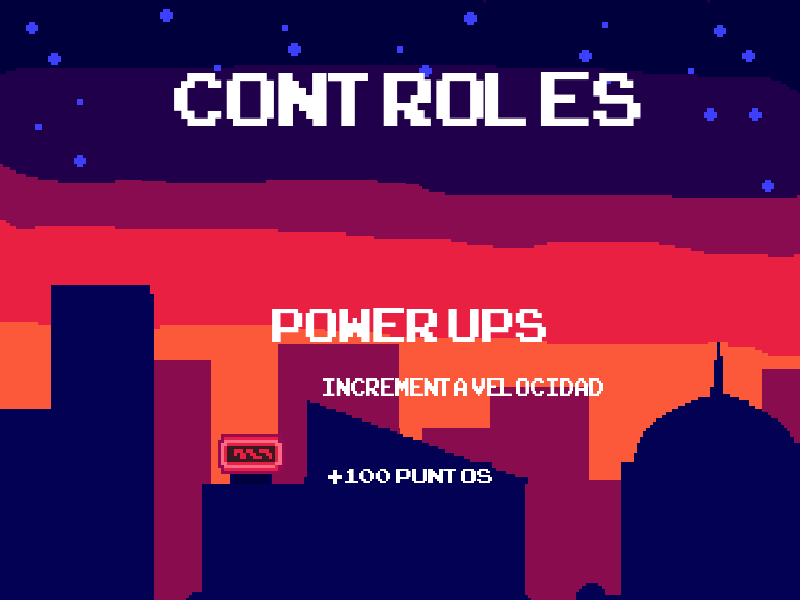
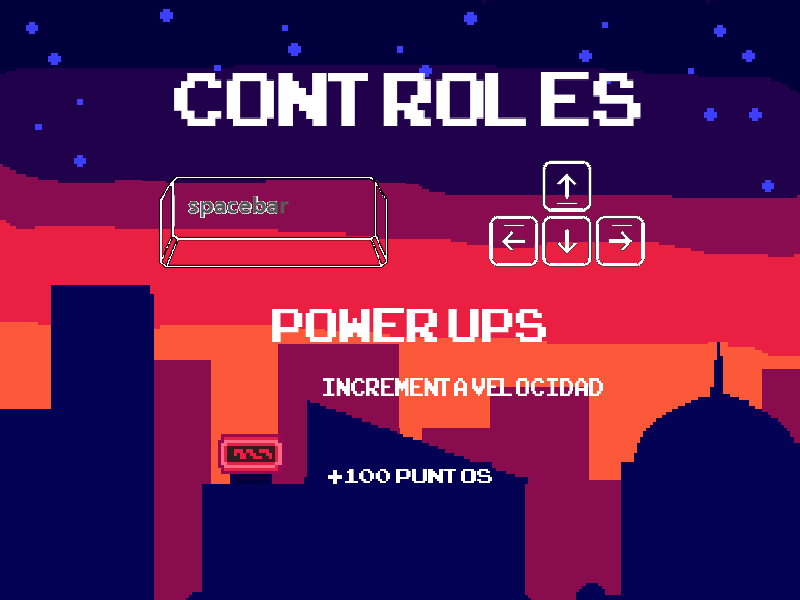
mecanicas principales finalizadas

Changed region(s): [[0.5938, 0.24, 0.8125, 0.45], [0.1875, 0.3, 0.5, 0.45], [0.2188, 0.27, 0.4688, 0.3]]

diff --git a/assets/scenes/Game3.js b/assets/scenes/Game3.js
@@ -1,22 +1,24 @@
-export default class Game extends Phaser.Scene {
+export default class Game3 extends Phaser.Scene {
   score;
   gameOver;
   timer;
   vel;
+  hits;
   constructor() {
-    super("game");
+    super("game3");
   }
 
   init() {
     this.gameOver = false;
     this.score = 0;
     this.vel= 430;
+    this.hits= 0;
   }
   create() {
    //add sound
    this.soundshoot = this.sound.add("shoots");
     //add background
-    this.add.image(400, 300, "background1").setScale(1);
+    this.add.image(400, 300, "background3").setScale(1);
     let platform = this.physics.add.staticGroup();
     platform.create(400, 640, "platform").setScale(1).refreshBody();
     //add sprites player
@@ -44,11 +46,20 @@ export default class Game extends Phaser.Scene {
     //add platform
     
     //add enemies
-    this.enemy = this.physics.add.group();
+    this.boss = this.physics.add.group();
+    this.boss = this.physics.add.sprite(400, 100, "boss").setScale(0.80);
+    this.boss.body.allowGravity = false;
+    this.enemy = this.physics.add.group(); 
     //add enemies event
     this.time.addEvent({
       delay: 3000,
       callback: this.spawnEnemy,
+      callbackScope: this,
+      loop: true,
+    })
+    this.time.addEvent({
+      delay: 5000,
+      callback: this.spawnEnemy2,
       callbackScope: this,
       loop: true,
     })
@@ -65,6 +76,8 @@ export default class Game extends Phaser.Scene {
     this.physics.add.collider(this.player, this.enemy);
     this.physics.add.collider(this.shoot, this.enemy);
     this.physics.add.collider(this.enemy, platform);
+    this.physics.add.collider(this.player, this.boss);
+    this.physics.add.collider(this.shoot, this.boss);
     this.physics.add.overlap(
       this.shoot,
       this.enemy,
@@ -100,7 +113,14 @@ export default class Game extends Phaser.Scene {
       this.reduce,
       null,
       this
-    )
+    );
+    this.physics.add.overlap(
+      this.shoot,
+      this.boss,
+      this.destroyBoss,
+      null,
+      this
+    );
 
     //add score on scene
     this.scoreText = this.add.text(20, 20, "Score:" + this.score, {
@@ -123,8 +143,8 @@ export default class Game extends Phaser.Scene {
     });
   }
   update() {
-    if (this.score >= 200) {
-      this.scene.start("win");
+    if (this.score >= 100) {
+      this.scene.start("win3");
     }
     if (this.gameOver) {
       this.scene.start("gameOver");
@@ -156,7 +176,12 @@ export default class Game extends Phaser.Scene {
   }
   spawnEnemy(){
     const randomX = Phaser.Math.RND.between(0,800);
-    this.enemy.create(randomX, 0, "enemy").setCircle(35, 40, 25).setCollideWorldBounds(true);
+    this.enemy.create(randomX +200 , 0, "enemy").setCircle(35, 40, 25).setCollideWorldBounds(true);
+    console.log("enemy spawned", randomX);
+  }
+  spawnEnemy2(){
+    const randomX = Phaser.Math.RND.between(0,800);
+    this.enemy.create(randomX, 0, "enemy2").setCircle(35, 40, 25).setGravityY(300).setCollideWorldBounds(true);
     console.log("enemy spawned", randomX);
   }
   spawnBonus1(){
@@ -216,6 +241,13 @@ export default class Game extends Phaser.Scene {
     setTimeout(() => {
       text.destroy();},
       200);
+    }
+    destroyBoss(shoot, boss){
+      shoot.disableBody(true,true);
+      this.hits ++
+      if(this.hits = 100){
+        this.scene.start("win3")
+      }
     }
   onSecond() {
     this.timer--;

diff --git a/assets/scenes/Preload.js b/assets/scenes/Preload.js
@@ -6,8 +6,12 @@ export default class Preload extends Phaser.Scene {
   preload() 
   {
     this.load.image("background1","./assets/images/background1.png");
+    this.load.image("background2","./assets/images/background2.png");
+    this.load.image("background3","./assets/images/background3.png");
     this.load.image("nave","./assets/images/nave defender.png");
     this.load.image("enemy","./assets/images/subditos.png");
+    this.load.image("enemy2","./assets/images/enemy2.png");
+    this.load.image("boss","./assets/images/nave nodriza.png");
     this.load.image("bala","./assets/images/bala.png");
     this.load.image("explosion","./assets/images/explosion.png");
     this.load.image("gameOver","./assets/images/gameover.png");
@@ -16,6 +20,13 @@ export default class Preload extends Phaser.Scene {
     this.load.image("help","./assets/images/helpbutton.png");
     this.load.image("helpscene","./assets/images/HELP.png");
     this.load.image("retrybtn","./assets/images/retry.png");
+    this.load.image("winscene","./assets/images/winscene.png");
+    this.load.image("gamewin","./assets/images/gamewin.png");
+    this.load.image("nlbtn","./assets/images/nextlevelbtn.png");
+    this.load.image("back","./assets/images/backbtn.png");
+    this.load.image("platform","./assets/images/platform.png");
+    this.load.audio("shoots","./assets/sounds/shootsound.wav")
+
     this.load.spritesheet("velocity","./assets/images/Bonus1.png", {
       frameWidth: 95,
       frameHeight: 95,
@@ -30,20 +41,20 @@ export default class Preload extends Phaser.Scene {
   
   
   create() {
-    this.bonus1 = this.anims.create({
-      key: "velocityanimation",
-      frames: this.anims.generateFrameNumbers("velocity", {start: 0, end: 1}),
-      frameRate: 10,
-      repeat: -1,
-      yoyo: true,
-    })
-    this.bonus2 = this.anims.create({
-      key: "pointsanimation",
-      frames: this.anims.generateFrameNumbers("extrapoints", {start: 0, end: 1}),
-      frameRate: 10,
-      repeat: -1,
-      yoyo: true,
-    })
+    // this.bonus1 = this.anims.create({
+    //   key: "velocityanimation",
+    //   frames: this.anims.generateFrameNumbers("velocity", {start: 0, end: 1}),
+    //   frameRate: 10,
+    //   repeat: -1,
+    //   yoyo: true,
+    // })
+    // this.bonus2 = this.anims.create({
+    //   key: "pointsanimation",
+    //   frames: this.anims.generateFrameNumbers("extrapoints", {start: 0, end: 1}),
+    //   frameRate: 10,
+    //   repeat: -1,
+    //   yoyo: true,
+    // })
     //game
     this.scene.start("menu")
   }}

diff --git a/assets/scenes/Game2.js b/assets/scenes/Game2.js
@@ -1,10 +1,10 @@
-export default class Game extends Phaser.Scene {
+export default class Game2 extends Phaser.Scene {
   score;
   gameOver;
   timer;
   vel;
   constructor() {
-    super("game");
+    super("game2");
   }
 
   init() {
@@ -16,7 +16,7 @@ export default class Game extends Phaser.Scene {
    //add sound
    this.soundshoot = this.sound.add("shoots");
     //add background
-    this.add.image(400, 300, "background1").setScale(1);
+    this.add.image(400, 300, "background2").setScale(1);
     let platform = this.physics.add.staticGroup();
     platform.create(400, 640, "platform").setScale(1).refreshBody();
     //add sprites player
@@ -49,6 +49,12 @@ export default class Game extends Phaser.Scene {
     this.time.addEvent({
       delay: 3000,
       callback: this.spawnEnemy,
+      callbackScope: this,
+      loop: true,
+    })
+    this.time.addEvent({
+      delay: 5000,
+      callback: this.spawnEnemy2,
       callbackScope: this,
       loop: true,
     })
@@ -124,7 +130,7 @@ export default class Game extends Phaser.Scene {
   }
   update() {
     if (this.score >= 200) {
-      this.scene.start("win");
+      this.scene.start("win2");
     }
     if (this.gameOver) {
       this.scene.start("gameOver");
@@ -156,7 +162,12 @@ export default class Game extends Phaser.Scene {
   }
   spawnEnemy(){
     const randomX = Phaser.Math.RND.between(0,800);
-    this.enemy.create(randomX, 0, "enemy").setCircle(35, 40, 25).setCollideWorldBounds(true);
+    this.enemy.create(randomX +200 , 0, "enemy").setCircle(35, 40, 25).setCollideWorldBounds(true);
+    console.log("enemy spawned", randomX);
+  }
+  spawnEnemy2(){
+    const randomX = Phaser.Math.RND.between(0,800);
+    this.enemy.create(randomX, 0, "enemy2").setCircle(35, 40, 25).setGravityY(300).setCollideWorldBounds(true);
     console.log("enemy spawned", randomX);
   }
   spawnBonus1(){

diff --git a/main.js b/main.js
@@ -1,8 +1,13 @@
 import Game from "./assets/scenes/Game.js";
+import Game2 from "./assets/scenes/Game2.js";
+import Game3 from "./assets/scenes/Game3.js";
 import GameOver from "./assets/scenes/GameOver.js";
 import Help from "./assets/scenes/Help.js";
 import Menu from "./assets/scenes/Menu.js";
 import Preload from "./assets/scenes/Preload.js";
+import Win from "./assets/scenes/Win.js";
+import Win3 from "./assets/scenes/Win3.js";
+import Win2 from "./assets/scenes/win2.js";
 
 // Create a new Phaser config object
 const config = {
@@ -31,7 +36,7 @@ const config = {
   // List of scenes to load
   // Only the first scene will be shown
   // Remember to import the scene before adding it to the list
-  scene: [Preload, Game, Menu, GameOver, Help ],
+  scene: [Preload, Game,Game2,Game3, Menu, GameOver, Help, Win, Win2,Win3 ],
 };
 
 // Create a new Phaser game instance

diff --git a/assets/scenes/Help.js b/assets/scenes/Help.js
@@ -10,6 +10,8 @@ export default class Help extends Phaser.Scene {
       this.bonus1.anims.play('velocityanimation');
       this.bonus1 = this.add.sprite(275, 470, 'extrapoints');
       this.bonus1.anims.play('pointsanimation');
+      this.add.image(100,560, "back").setScale(0.20).setInteractive()
+      .on("pointerdown",() => this.scene.start("menu"));
       this.add.image(400,550, "play").setScale(0.40).setInteractive()
       .on("pointerdown",() => this.scene.start("game"));
   }}

diff --git a/assets/scenes/Win2.js b/assets/scenes/Win2.js
@@ -1,0 +1,12 @@
+export default class Win2 extends Phaser.Scene {
+  constructor() {
+    super("win2");
+  }
+  create() {
+    this.add
+      .image(400, 300, "winscene")
+      .setScale(1);
+      this.add
+      .image(400, 500, "nlbtn")
+      .setScale(1).setInteractive().on("pointerdown", () => this.scene.start("game3"));
+  }}

diff --git a/assets/scenes/Win3.js b/assets/scenes/Win3.js
@@ -1,0 +1,12 @@
+export default class Win3 extends Phaser.Scene {
+  constructor() {
+    super("win3");
+  }
+  create() {
+    this.add
+      .image(400, 300, "gamewin")
+      .setScale(1);
+      this.add
+      .image(400, 550, "back")
+      .setScale(0.40).setInteractive().on("pointerdown", () => this.scene.start("menu"));
+  }}

diff --git a/assets/scenes/Win.js b/assets/scenes/Win.js
@@ -1,0 +1,12 @@
+export default class Win extends Phaser.Scene {
+  constructor() {
+    super("win");
+  }
+  create() {
+    this.add
+      .image(400, 300, "winscene")
+      .setScale(1);
+      this.add
+      .image(400, 500, "nlbtn")
+      .setScale(1).setInteractive().on("pointerdown", () => this.scene.start("game2"));
+  }}
